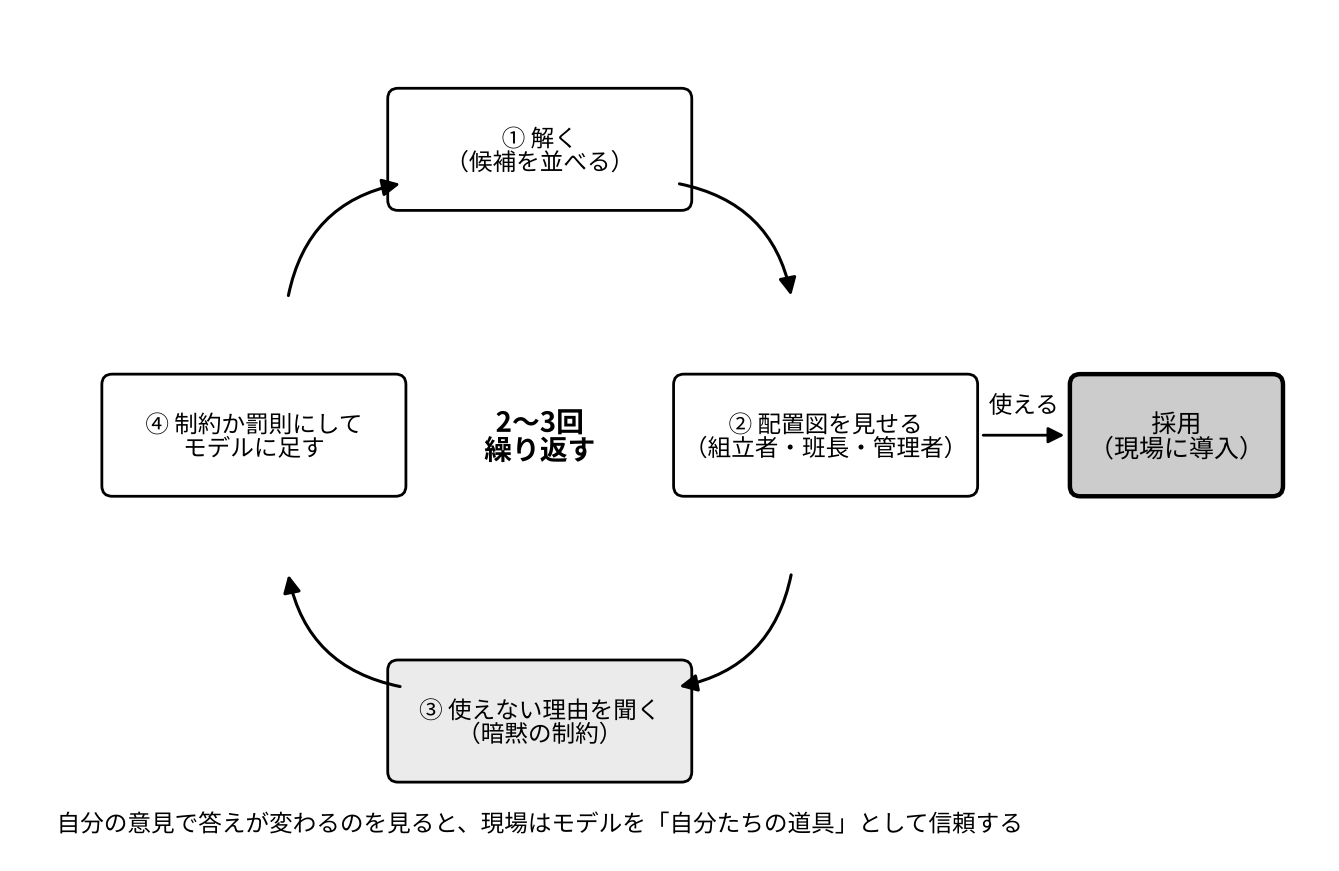
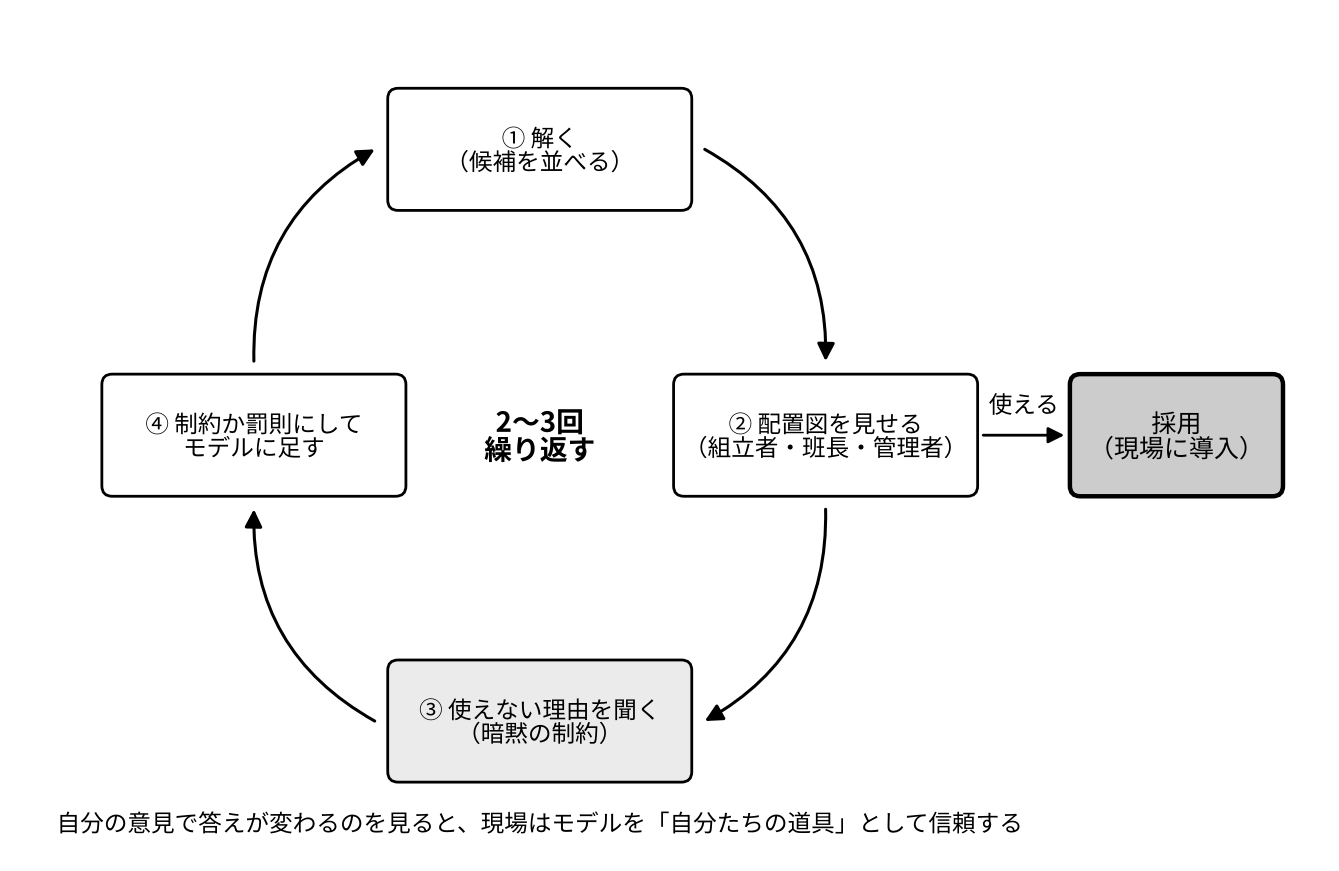
図6-7：ループの矢印が箱に重ならないように描き直し
Claude-Session: https://claude.ai/code/session_015ijjeCwV7qRARbxqxFA8nM

diff --git a/scripts/ch6_concept_figures.py b/scripts/ch6_concept_figures.py
@@ -57,14 +57,15 @@ def fig6_7():
         x, y = cx + r * math.cos(math.radians(ang)), cy + r * math.sin(math.radians(ang))
         pos[ang] = (x, y)
         rbox(ax, x - 1.15, y - 0.45, 2.3, 0.9, text, fs=8.5, fc="0.92" if ang == 270 else "white")
-    order = [90, 0, 270, 180, 90]
-    for a0, a1 in zip(order[:-1], order[1:]):
-        # 円周に沿って、箱の外側どうしを曲線の矢印でつなぐ
-        m0, m1 = a0 - 28, a1 + 28                     # 箱から少し離れた円周上の点
-        p0 = (cx + r * math.cos(math.radians(m0)), cy + r * math.sin(math.radians(m0)))
-        p1 = (cx + r * math.cos(math.radians(m1)), cy + r * math.sin(math.radians(m1)))
-        ax.add_patch(FancyArrowPatch(p0, p1, arrowstyle="-|>", mutation_scale=13, lw=1.1, color="black",
-                                     connectionstyle="arc3,rad=-0.35"))
+    # 箱の辺の中点どうしを、円の外側にふくらむ曲線の矢印でつなぐ（箱には重ねない）
+    w, h, g = 1.15, 0.45, 0.12
+    def edge(ang, side):
+        x, y = pos[ang]
+        return {"r": (x + w + g, y), "l": (x - w - g, y), "t": (x, y + h + g), "b": (x, y - h - g)}[side]
+    links = [((90, "r"), (0, "t")), ((0, "b"), (270, "r")), ((270, "l"), (180, "b")), ((180, "t"), (90, "l"))]
+    for (a0, s0), (a1, s1) in links:
+        ax.add_patch(FancyArrowPatch(edge(a0, s0), edge(a1, s1), arrowstyle="-|>", mutation_scale=13, lw=1.1,
+                                     color="black", shrinkA=0, shrinkB=0, connectionstyle="arc3,rad=-0.3"))
     ax.text(cx, cy, "2〜3回\n繰り返す", ha="center", va="center", fontsize=10, fontweight="bold")
     x2, y2 = pos[0]
     rbox(ax, 8.1, y2 - 0.45, 1.6, 0.9, "採用\n（現場に導入）", fc="0.8", fs=9, lw=1.6)
